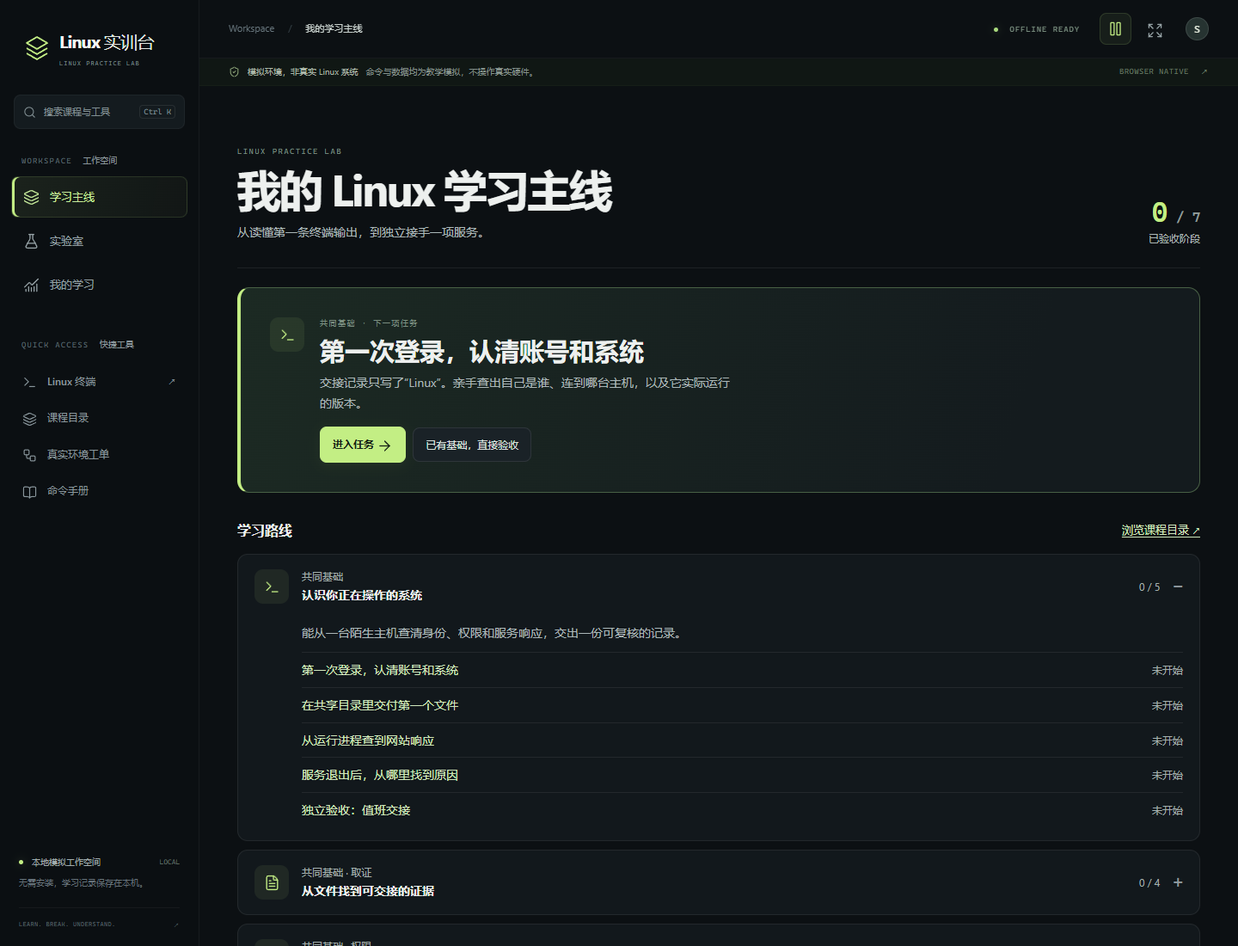
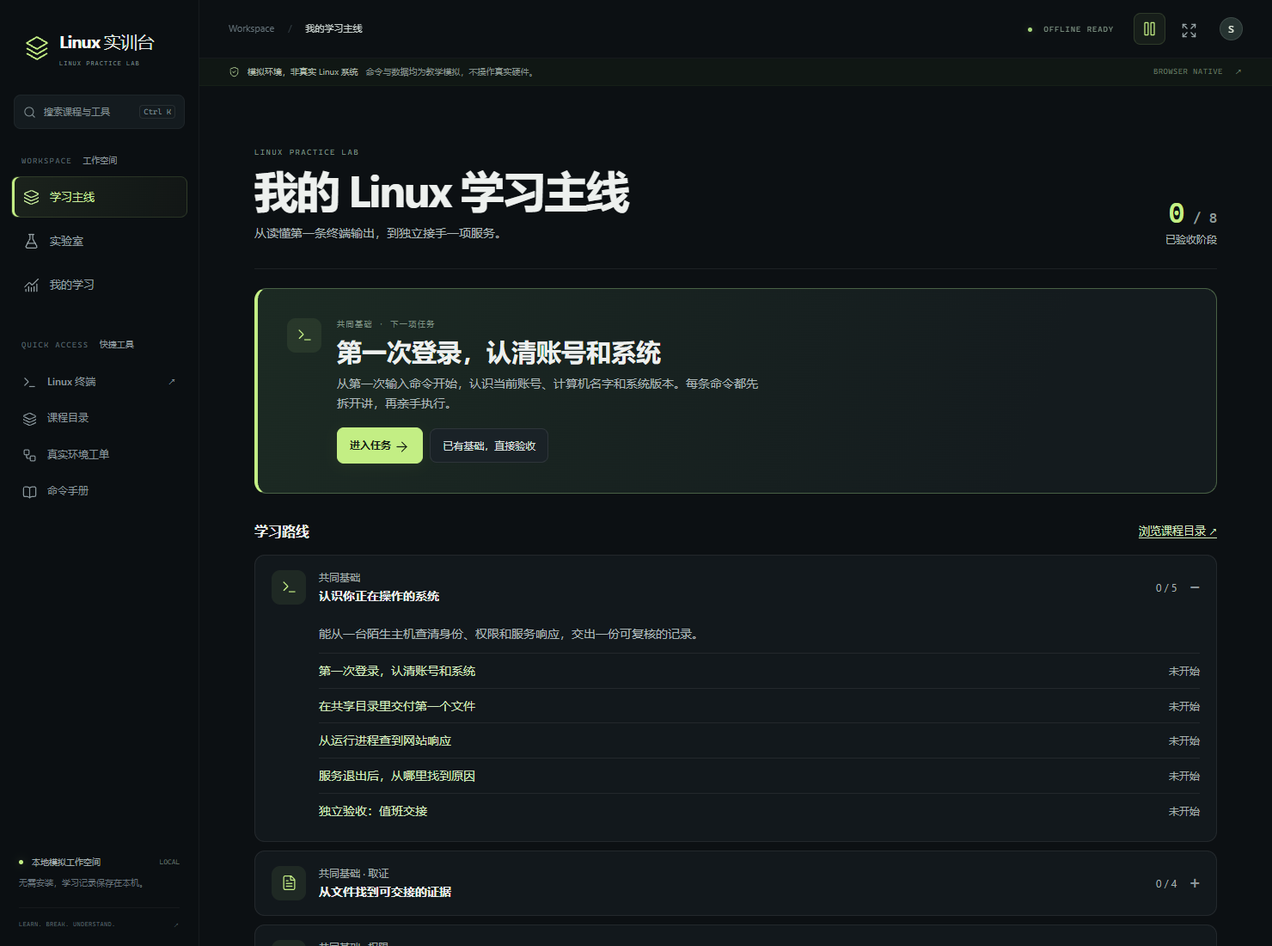
Teach service lifecycle and cron evidence through guided Linux tasks

diff --git a/schedule-courses.js b/schedule-courses.js
@@ -1,0 +1,72 @@
+'use strict';
+
+Object.assign(LINUX_CONCEPTS,{
+  servicestates:['当前运行与开机启用','start 请求服务现在启动；enable 为正常开机流程建立启用关系。两者管理的是不同状态，enable 本身不启动服务。','is-active 查现在，is-enabled 查启用关系。对本课 crond，active + disabled 可以同时成立；enabled + inactive 也可以同时成立。其他真实服务还可能被依赖或手工启动。'],
+  stopdisable:['停止、禁用与重启验证','stop 停止本次运行，不移除开机启用关系；disable 移除启用关系，不默认停止正在运行的服务。','enable --now 同时启用并启动。本课先分别操作，再模拟重启；用本次启动日志证明是否自动启动。禁用不是禁止任何方式启动。'],
+  cronfields:['系统计划行的七个部分','/etc/cron.d 的一行依次是分、时、日、月、星期、执行账号、命令。前三个星号在这里分别允许任意日、月、星期。','15 2 * * * reportbot /opt/host-report/bin/collect 表示每天 02:15 以 reportbot 启动脚本。15 是分钟，2 是小时；不是每 15 分钟。用户自己的 crontab 没有额外账号列。'],
+  crontime:['先确认时区和触发时间','本课时钟固定使用 UTC。初始 01:55，到当天 02:15 还差 20 分钟，也就是 1200 秒。','sim wait 只推进模拟时间；sim next-cron 跳到下一次每日 02:15。现实中不会自动加速，计划内容和系统时区也需分别确认。这里未模拟夏令时、补跑或复杂表达式。'],
+  croninstall:['模板与实际生效的配置','/opt/host-report/host-report.cron 是审核过的源模板。只有安装到 /etc/cron.d/host-report 后，本课调度器才读取它。','install -o root -g root -m 0644 指定目标属主、属组和权限。读回目标内容，再 ls -l 核对；仅有源模板并不能证明任务已安排。'],
+  dispatchproof:['派发、执行与产物三层证据','CROND 的 CMD 表示已启动任务；脚本自己的日志记录退出结果；报告记录实际生成的数据和来源。任务失败时，旧报告可能继续留在原路径。','把同一时刻的 CMD、source=cron 的脚本日志以及报告 generatedAt、boot、runId 对应。失败日志的 exit=127 是脚本结果，tail 命令自身仍可能读取成功。']
+});
+
+const SCHEDULE_COURSES=[
+  {id:'linux-service-lifecycle',track:'linux',group:'服务与定时任务',level:'基础',title:'现在能运行，重启后还会运行吗',
+   description:'亲自对比 start、enable、stop 和重启。把现在的运行状态与开机启用设置分开取证。',initial:{workload:'host-ops',scheduleTraining:'service'},
+   recap:'你已能解释两类状态，并用实际重启和本次日志核对 crond 的自动启动。继续学习它怎样派发任务。',
+   steps:[
+     {title:'先启动，观察两类状态',goal:'本课账号权限和 jq 已准备好，只关注调度服务 crond。先查它的当前运行和开机启用状态；再启动服务，重新查询这两项。',
+      knowledge:['process','servicestates'],concept:'crond 是按时启动任务的后台服务。“运行中”回答现在的状态，“开机启用”回答启动流程中的设置。',
+      commands:['systemctl is-active crond','systemctl is-enabled crond','sudo systemctl start crond','systemctl is-active crond','systemctl is-enabled crond','systemctl status crond'],
+      checks:[['先记录 inactive 与 disabled',c=>scheduleSaw('ops-cron-status',e=>e.action==='is-active'&&!e.active&&!e.enabled,false)(c)&&scheduleSaw('ops-cron-status',e=>e.action==='is-enabled'&&!e.active&&!e.enabled,false)(c)],
+        ['启动后复测 active 与 disabled',c=>scheduleSaw('ops-cron-status',e=>e.action==='is-active'&&e.active&&!e.enabled)(c)&&scheduleSaw('ops-cron-status',e=>e.action==='is-enabled'&&e.active&&!e.enabled)(c)]],
+      question:'start 后查询得到 active 和 disabled，说明什么？',choices:['现在已经运行，但尚未设置本课的正常开机自动启动','现在服务已经停止','下次启动一定会永久禁止该服务'],answer:0,feedback:'分别记录两类状态。下一步启用后停止服务，再用重启验证差别。',
+      example:['先看一个小例子','一台练习机现在 active，启用设置为 disabled。','它可以被手工启动，所以当前运行与开机设置不矛盾。','使用自己的两次查询对照。']},
+     {title:'启用后停止，再真正重启验证',goal:'设置 crond 开机启用，再 stop。查询并观察 enabled 与 inactive。随后模拟重启，重新查完整状态与本次启动日志。',
+      knowledge:['servicestates','stopdisable','journal'],concept:'本课重启保留开机启用设置，并按照它启动 crond。停止当前进程不会删除这项设置。刷新页面只是续学，不是模拟重启。',
+      commands:['sudo systemctl enable crond','sudo systemctl stop crond','systemctl is-enabled crond','systemctl is-active crond','sudo reboot','systemctl status crond','journalctl -u crond -b'],
+      checks:[['重启前亲自观察 enabled 与 inactive',({events})=>events.some(e=>e.kind==='ops-cron-status'&&!e.pipeline&&!e.fromPeer&&e.action==='is-enabled'&&e.enabled&&!e.active)&&events.some(e=>e.kind==='ops-cron-status'&&!e.pipeline&&!e.fromPeer&&e.action==='is-active'&&e.enabled&&!e.active)],
+        ['新启动已自动拉起，状态与当前日志相符',scheduleBootVerified]],
+      readings:[['boot','模拟机当前启动轮次',m=>String(m.boot)]],
+      question:'stop 后仍然 enabled，重启又 active，原因是什么？',choices:['stop 自动清空了全部计划','stop 只停止当前运行，启用设置在本次重启时重新拉起服务','浏览器刷新安装了新的 Linux 内核'],answer:1,feedback:'服务已随本次启动运行，还不能据此证明任何定时脚本成功。',
+      example:['把操作与证据连起来','启用 → 停止 → enabled/inactive → 重启 → enabled/active。','两次状态查询分别描述各自时点。','在新的启动轮次读日志，避免拿上次记录证明这次启动。']}
+   ]},
+  {id:'linux-cron-evidence',track:'linux',group:'服务与定时任务',level:'基础',title:'计划派发了，为什么还是旧报告',
+   description:'读懂每日计划的每一列。观察派发成功而脚本失败，恢复依赖后串起同一次执行的三层证据。',initial:{workload:'host-ops',scheduleTraining:'dispatch'},
+   recap:'你能区分配置、派发和脚本结果，排除旧报告与手工试跑，再进入独立交接。',
+   steps:[
+     {title:'先读时间与模板，再安装计划',goal:'本课 crond 已启动并启用，reportbot 可读输入，但 jq 尚未安装，磁盘上留有旧手工报告。先看时间、状态和旧报告，再逐列读审核模板，安装到 cron.d 并核对内容、属主与权限。',
+      knowledge:['crontime','cronfields','croninstall','freshartifact'],concept:'先保留现场。原模板位于 /opt，实际任务文件位于 /etc/cron.d。安装配置不会立刻生成报告。',
+      commands:['date','systemctl status crond','cat '+HOST_REPORT_RESULT,'cat '+HOST_CRON_TEMPLATE,scheduleInstall,'cat '+HOST_CRON_FILE,'ls -l '+HOST_CRON_FILE],
+      checks:[['记录时区、当前服务和旧手工产物',c=>scheduleSaw('ops-time',e=>!e.failed&&e.output.includes('UTC'),false)(c)&&scheduleSaw('ops-cron-status',e=>!e.failed&&e.active&&e.enabled,false)(c)&&scheduleSaw('ops-artifact',e=>!e.failed&&e.artifact.boot!==c.machine.boot&&e.artifact.source==='manual',false)(c)],
+        ['模板已安装，并读回目标内容及权限',c=>scheduleSaw('ops-schedule-read',e=>!e.failed&&!e.installed,false)(c)&&scheduleSaw('ops-schedule-read',e=>!e.failed&&e.installed)(c)&&scheduleSaw('ops-schedule-mode',e=>!e.failed)(c)]],
+      question:'/etc/cron.d 中的 15 2 * * * reportbot 告诉我们什么？',choices:['每 15 秒以 root 执行','按本课 UTC 每天 02:15 以 reportbot 执行','每天 15:02 启动浏览器'],answer:1,feedback:'配置就位，下一步观察触发后的实际执行。',
+      example:['换个数字自己读','30 8 * * * analyst /opt/demo/check','每天 08:30，以 analyst 执行该绝对路径。','回到本课逐列读出 02:15 和 reportbot。']},
+     {title:'保存派发成功、脚本失败的现场',goal:'用模拟时钟跳到下一次触发点。查本次启动的调度日志、脚本日志和依赖包，再读 latest.json：它有没有被这一次任务更新？',
+      knowledge:['dispatchproof','dependencies','freshartifact'],concept:'这次会真正触发模拟脚本。CMD 只能证明派发；缺少 jq 时脚本退出 127，旧文件仍留在原路径。',
+      commands:['sim next-cron','journalctl -u crond -b','tail -n 6 '+HOST_REPORT_LOG,'rpm -q jq','cat '+HOST_REPORT_RESULT],
+      checks:[['当前已派发，同时留下本轮 exit=127 的脚本证据',c=>scheduleSaw('ops-cron-log',e=>!e.failed&&e.current&&Boolean(e.dispatchedAt))(c)&&scheduleSaw('ops-job-log',e=>!e.failed&&e.entries.some(row=>row.source==='cron'&&row.boot===c.machine.boot&&row.exitCode===127&&row.runId===c.machine.ops.runOrdinal))(c)],
+        ['证实依赖缺失，读回的仍是旧手工报告',c=>scheduleSaw('ops-package-query',e=>e.failed&&!e.installed)(c)&&scheduleSaw('ops-artifact',e=>!e.failed&&e.artifact.boot!==c.machine.boot&&e.artifact.source==='manual')(c)]],
+      readings:[['exit','脚本日志中本轮 cron 任务的 exit',()=> '127']],
+      question:'CMD 存在、tail 读取成功，但日志里 exit=127，应该怎样判定？',choices:['tail 成功等于巡检成功','计划已经派发，脚本失败；旧报告不能作为本轮成功证据','只需要删掉错误日志'],answer:1,feedback:'保存失败证据后修复依赖，再等一次新的调度并复查。',
+      example:['读取成功不等于被读程序成功','tail 返回了一行 source=cron exit=127。','tail 成功读取文件；文件记录的是另一程序的失败。','把查询命令结果与任务退出结果分开。']},
+     {title:'修复后核对新的自动产物',goal:'确认批准来源并安装 jq。先手工试跑、读报告，明确 manual 只证明手工成功。再跳到下次 02:15，重新采服务、计划、派发日志、脚本日志和新报告。',
+      knowledge:['repositories','dispatchproof','freshartifact'],concept:'修复不删除历史错误。新一次自动运行应有新的 runId、source=cron 和对应时间。旧日志仍在，需要找到这一轮。',
+      commands:['dnf info jq','sudo dnf install jq',reportRun,'cat '+HOST_REPORT_RESULT,'sim next-cron','systemctl status crond','cat '+HOST_CRON_FILE,'ls -l '+HOST_CRON_FILE,'journalctl -u crond -b','tail -n 6 '+HOST_REPORT_LOG,'cat '+HOST_REPORT_RESULT],
+      checks:[['修复依赖后先验证本轮手工产物',c=>scheduleSaw('ops-package-repo',e=>!e.failed&&e.output.includes('ops-approved'),false)(c)&&scheduleSaw('ops-artifact',e=>!e.failed&&e.artifact.source==='manual'&&e.artifact.boot===c.machine.boot)(c)],
+        ['变更后重新核对服务和实际计划',c=>scheduleSaw('ops-cron-status',e=>!e.failed&&e.action==='status'&&e.active&&e.enabled)(c)&&scheduleSaw('ops-schedule-read',e=>!e.failed&&e.installed)(c)&&scheduleSaw('ops-schedule-mode',e=>!e.failed)(c)],
+        ['自动任务的派发、退出 0 与本轮产物一致',scheduleCurrentReport]],
+      readings:[['source','新自动报告的 source',()=> 'cron'],['run','新自动报告的 runId',m=>String(m.ops.latest?.runId||'')]],
+      question:'手工报告和自动报告都成功，最终证明计划完成应引用哪一组？',choices:['任意一次 manual 报告','只有模板和 enabled','本轮 cron 的派发时间、exit=0 与匹配的新报告'],answer:2,feedback:'用具体的时间、编号和启动轮次说明这一次成功。',
+      example:['同一路径，不同运行','旧报告 runId=4，手工试跑 runId=5，自动运行 runId=6。','路径相同，来源和执行编号不同。','交接自动任务时引用第 6 次实际结果及对应日志。']}
+   ]},
+  {id:'linux-schedule-handoff',track:'linux',group:'服务与定时任务',level:'基础',title:'独立验收：重启后的自动巡检交接',
+   description:'新现场已具备账号、依赖和计划。独立检查开机设置，重启后验证新自动报告并填写现场读数。',initial:{workload:'host-ops',scheduleTraining:'assessment'},
+   recap:'你已能独立验收自动任务。下一项 OPS-002 把账号、软件、服务和计划组合为一张完整接管工单。',
+   steps:[{title:'独立接管自动任务',independent:true,goal:'本课 reportbot 读权限和 jq 已准备，实际计划文件已存在。调查 crond 当前运行、开机启用设置和留存报告，保存变更前证据。获准只调整调度服务的启动设置；要求通过模拟重启证明服务自动启动，检查计划与权限仍有效，再取得新一次自动任务的派发、退出结果及报告。使用模拟时间推进，不必等待现实时间。最后填写本次自动报告的读数。',
+     checks:[['保存接管前 active/disabled 与旧报告',({events})=>events.some(e=>e.kind==='ops-cron-status'&&!e.pipeline&&!e.fromPeer&&e.boot===1&&e.active&&!e.enabled)&&events.some(e=>e.kind==='ops-artifact'&&!e.failed&&!e.pipeline&&!e.fromPeer&&e.boot===1&&e.artifact.boot===0)],
+       ['重启后服务自动启动，已重新核对计划及权限',c=>scheduleBootVerified(c)&&scheduleSaw('ops-schedule-read',e=>!e.failed&&e.installed)(c)&&scheduleSaw('ops-schedule-mode',e=>!e.failed)(c)],
+       ['本次启动的新自动任务三层证据齐全',scheduleCurrentReport]],
+     readings:[['account','本轮自动报告的 account',()=> 'reportbot'],['source','本轮自动报告的 source',()=> 'cron'],['time','本轮自动报告的 generatedAt（完整值）',m=>m.ops.latest?.generatedAt||''],['run','本轮自动报告的 runId',m=>String(m.ops.latest?.runId||'')],['boot','本轮自动报告的 boot',m=>String(m.boot)]],
+     question:'哪项可以写入本轮交接结论？',choices:['见过旧报告，自动任务就永久可靠','服务 active，所以不需要检查脚本','重启后自动启动已验证，本轮定时脚本退出 0，新报告时间、来源和编号匹配；后续继续监测失败与新鲜度'],answer:2,feedback:'结论限定在实际验证的环境与轮次，并保留下一班的检查点。'}]
+  }
+];

diff --git a/schedule-lab.js b/schedule-lab.js
@@ -1,0 +1,44 @@
+'use strict';
+
+COMMAND_KB.push(
+  ['服务','systemctl is-active crond','查询调度器现在是否运行','区分当前运行和开机启用。','is-active 只查当前状态，不改变服务。','active','active 但 disabled 是否矛盾？','linux-service-lifecycle'],
+  ['服务','systemctl is-enabled crond','查询正常开机启用关系','设置与当前进程分开核对。','enable 本身不启动，disable 本身不停止。','disabled','stop 后为什么仍然 enabled？','linux-service-lifecycle'],
+  ['计划任务','cat /etc/cron.d/host-report','逐列读取系统每日计划','先确认时间、账号与命令，再核对实际派发。','系统 cron.d 有账号字段；用户 crontab 没有额外账号列。',HOST_CRON_LINE,'看到 CMD 为什么还不能判定成功？','linux-cron-evidence']
+);
+
+// Lessons reuse the same crond, clock and report job as OPS-002.
+function initializeScheduleLab(machine,variant){
+  const ops=machine.ops;
+  ops.groupMember=true;
+  ops.packageInstalled=variant!=='dispatch';
+  machine.scheduleTraining={revision:0};
+  if(variant!=='service'){
+    ops.runOrdinal=1;
+    ops.latest={generatedAt:'2024-12-31T02:15:00Z',boot:0,source:'manual',account:'reportbot',checks:HOST_CHECKS.length,runId:1};
+    ops.enabled=variant==='dispatch';
+    ops.schedule=variant==='assessment';
+    setHostCronActive(machine,true);
+  }
+}
+
+function scheduleSaw(kind,match=()=>true,live=true){
+  return ({events,machine})=>events.some(e=>e.kind===kind&&!e.pipeline&&!e.fromPeer&&e.boot===machine.boot&&(!live||e.scheduleRevision===machine.scheduleTraining.revision)&&match(e));
+}
+
+function scheduleCurrentReport({events,machine}){
+  const ops=machine.ops,latest=ops.latest;
+  if(!ops.active||!ops.enabled||!ops.schedule||ops.reportRevision!==machine.scheduleTraining.revision||!latest||latest.source!=='cron'||latest.boot!==machine.boot||latest.account!=='reportbot'||latest.runId!==ops.runOrdinal)return false;
+  const fresh=e=>!e.failed&&!e.pipeline&&!e.fromPeer&&e.boot===machine.boot&&e.scheduleRevision===machine.scheduleTraining.revision;
+  const dispatch=events.findLast(e=>fresh(e)&&e.kind==='ops-cron-log'&&e.current&&e.dispatchedAt===latest.generatedAt);
+  const job=events.findLast(e=>fresh(e)&&e.kind==='ops-job-log'&&e.entries.some(row=>row.boot===machine.boot&&row.source==='cron'&&row.runId===latest.runId&&row.scheduledAt===latest.generatedAt&&row.exitCode===0));
+  const artifact=events.findLast(e=>fresh(e)&&e.kind==='ops-artifact'&&e.artifact.source==='cron'&&e.artifact.boot===machine.boot&&e.artifact.runId===latest.runId&&e.artifact.generatedAt===latest.generatedAt);
+  return Boolean(dispatch&&job&&artifact);
+}
+
+function scheduleBootVerified(context){
+  const {events,machine}=context,ops=machine.ops;
+  return ops.autoStartedBoot===machine.boot&&ops.enabled&&ops.active
+    &&events.some(e=>e.kind==='reboot'&&!e.failed&&!e.fromPeer&&e.boot===machine.boot&&e.fromBoot<machine.boot)
+    &&scheduleSaw('ops-cron-status',e=>!e.failed&&e.action==='status'&&e.enabled&&e.active)(context)
+    &&scheduleSaw('ops-cron-log',e=>!e.failed&&e.current&&e.started)(context);
+}

diff --git a/course-teaching.js b/course-teaching.js
@@ -104,6 +104,10 @@ function renderTerms(text){
 
 function measurementExample(segment){
   const tool=segment.command;
+  if(tool==='cat'&&[HOST_CRON_TEMPLATE,HOST_CRON_FILE].includes(segment.positionals[0])){
+    const fields=[['15','分钟','每小时的第 15 分钟'],['2','小时','一天中的 02 时（24 小时制）'],['*','日','不限定当月哪一天'],['*','月','不限定月份'],['*','星期','不限定星期几'],['reportbot','执行账号','脚本以该账号的权限运行'],[HOST_REPORT_SCRIPT,'命令','脚本的绝对路径']];
+    return '<section class="starter-demo"><h4>把计划行拆成七个部分</h4><pre>'+esc(HOST_CRON_LINE)+'</pre><table><thead><tr><th>写的值</th><th>字段</th><th>表示什么</th></tr></thead><tbody>'+fields.map(row=>'<tr>'+row.map(value=>'<td>'+esc(value)+'</td>').join('')+'</tr>').join('')+'</tbody></table><p>连起来读：每天 02:15，使用 reportbot 账号执行 collect。星号允许该字段的任意值。这里是系统 cron.d 格式；用户自己的 crontab 不添加执行账号列。</p><p>本机按 UTC 调度。初始 01:55 到 02:15 相差 20 分钟，也就是 1200 秒。先执行 date 确认本机时间。sim next-cron 只推进这台模拟机的时钟，不改变电脑时间。</p></section>';
+  }
   if(tool==='fio'){
     const block=segment.opts['--bs']||'4k',mib=sizeMiB(block);
     return '<section class="starter-demo"><h4>先用小数字读懂指标</h4><p>下面是计算示例。假设每次读 '+esc(block)+'，每秒完成 1000 次，那么 IOPS=1000，BW 约为 '+(1000*mib).toFixed(2)+' MiB/s。</p><p>次数乘每次大小得到传输量。延迟表示每次请求用了多久，接下来从实际输出同时读取这三类数据。示例数字不计入本轮测试结果。</p></section>';

diff --git a/command-teaching.js b/command-teaching.js
@@ -132,7 +132,12 @@ function teachingRows(segment,output,event){
   }
   if(event?.kind==='ops-schedule-read')add('计划行：分 时 日 月 星期 用户 命令',line(/^15 2 /),'每天按主机时区于 02:15 启动。cron.d 的用户字段指定 reportbot，命令使用绝对路径。');
   if(event?.kind==='ops-cron-log')add('CROND / CMD',lines.findLast(value=>value.includes(' CMD ')),'调度器已经派发命令。脚本是否完成还要查退出结果和新生成的文件。');
-  if(event?.kind==='ops-job-log')add('source / exit',lines.findLast(value=>value.includes('exit=')),'source 区分手工和定时。exit=0 表示脚本成功，仍应对照新报告的时间和来源。');
+  if(event?.kind==='ops-job-log'){
+    add('source / exit / run',lines.findLast(value=>value.includes('exit=')),'source 区分 manual 手工与 cron 定时。exit 是脚本的退出码；run 是运行编号。exit=0 还需匹配新报告；127 在本课表示依赖缺失。读取日志的 tail 自身可以成功，日志中的脚本仍可能失败。');
+  }
+  if(event?.kind==='ops-cron-status'){
+    add('当前运行 / 开机启用',(event.active?'active':'inactive')+' / '+(event.enabled?'enabled':'disabled'),'这是两项状态：start/stop 改现在，enable/disable 改正常开机启用关系。enable 本身不启动。对本课 crond，inactive 查询返回 3，disabled 查询返回 1，是查询结果，不自动代表硬件故障。');
+  }
   if(event?.kind==='ops-artifact')add('generatedAt / boot / source',lines.filter(value=>/"(generatedAt|boot|source)"/.test(value)).join('\n'),'用时间、启动轮次和生成方式排除旧报告或手工试跑。');
   if(command==='lscpu'){
     const count=label=>Number(lines.find(l=>l.startsWith(label+':'))?.split(':')[1]);

diff --git a/practice-engine.js b/practice-engine.js
@@ -66,6 +66,7 @@ function createPracticeRun(initial){
   if(initial.fileTraining)initializeFileLab(machine,initial.fileTraining);
   if(initial.accountTraining)initializeAccountLab(machine,initial.accountTraining);
   if(initial.packageTraining)initializePackageLab(machine,initial.packageTraining);
+  if(initial.scheduleTraining)initializeScheduleLab(machine,initial.scheduleTraining);
   return {machine,events:[],sequence:0};
 }
 
@@ -132,6 +133,7 @@ function recordPracticeEvent(run,raw,result,previous,segment){
   const state=practiceState(run.machine);
   const changed=Object.keys(state).filter(key=>state[key]!==previous[key]);
   if(changed.length)run.machine.revision++;
+  if(run.machine.scheduleTraining&&changed.some(key=>['boot','reportAccess','reportDependency','cronActive','cronEnabled','cronSchedule'].includes(key)))run.machine.scheduleTraining.revision++;
   const event={
     environment:machineEnvironment(run.machine),environmentKey:environmentKey(run.machine),
     ...result,failed:Boolean(result.failed),raw,at:stamp(),seq:++run.sequence,
@@ -139,6 +141,7 @@ function recordPracticeEvent(run,raw,result,previous,segment){
     revision:run.machine.revision,fromBoot:previous.boot,changed,
     workingDirectory:previous.cwd,
     workingUser:previous.accountSession,
+    scheduleRevision:run.machine.scheduleTraining?.revision,
     command:segment?.command, target:result.target??segment?.positionals[0], fromPeer:Boolean(segment?.fromB),
     delta:changed.length?Object.fromEntries(changed.map(key=>[key,[previous[key],state[key]]])):undefined
   };

diff --git a/host-ops-lab.js b/host-ops-lab.js
@@ -39,6 +39,7 @@ function runHostReport(machine,source){
   if(ops.log.length>80)ops.log.shift();
   if(reason)return {...modelError('collect: '+error,'ops-collect',reason,exitCode),runId,source};
   ops.latest={generatedAt:time,boot:machine.boot,source,account:'reportbot',checks:HOST_CHECKS.length,runId};
+  if(machine.scheduleTraining)ops.reportRevision=machine.scheduleTraining.revision;
   return modelResult('Wrote '+HOST_REPORT_RESULT+' ('+HOST_CHECKS.length+' checks)','ops-collect',{source,runId,exitCode:0});
 }
 
@@ -142,7 +143,7 @@ function runHostOpsCommand(machine,segment){
     const limit=Number(opts['-n']||10);
     if(command==='tail'&&(!Number.isInteger(limit)||limit<0))return modelError('tail: invalid number of lines','ops-job-log','arguments');
     const entries=command==='cat'?ops.log:limit?ops.log.slice(-limit):[];
-    return result(entries.map(entry=>entry.message).join('\n'),'ops-job-log',{scheduled:entries.findLast(entry=>entry.source==='cron'&&entry.boot===machine.boot&&entry.exitCode===0)?.scheduledAt});
+    return result(entries.map(entry=>entry.message).join('\n'),'ops-job-log',{entries:entries.map(entry=>({...entry})),scheduled:entries.findLast(entry=>entry.source==='cron'&&entry.boot===machine.boot&&entry.exitCode===0)?.scheduledAt});
   }
   if(['ls','cat'].includes(command)&&paths.includes(action))return modelError(command+': cannot access '+action+': No such file or unsupported view','ops-file','unavailable');
   return modelError(command+': unsupported action or target in the host work order','ops-command','arguments');

diff --git a/linux-path.js b/linux-path.js
@@ -11,6 +11,8 @@ const LINUX_PATH=[
    items:ACCOUNT_COURSES.map(c=>c.id),checkpoint:'linux-access-handoff'},
   {label:'共同基础 · 软件',icon:'layers',title:'从软件包验证到本轮任务',goal:'区分仓库、本机安装、程序搜索和实际运行，读回本轮产物再交接。',
    items:PACKAGE_COURSES.map(c=>c.id),checkpoint:'linux-package-handoff'},
+  {label:'共同基础 · 调度',icon:'workflow',title:'让服务重启后按时完成任务',goal:'分清运行与开机设置，读懂计划每一列，用派发、退出结果和新产物完成验收。',
+   items:SCHEDULE_COURSES.map(c=>c.id),checkpoint:'linux-schedule-handoff'},
   {label:'初级到中级',icon:'workflow',title:'接手一项日常工作',goal:'恢复每天的巡检报告，再接手一次 Web 发布。每次变更都要有验证和交接。',
    items:['linux-host-ops','linux-web-release']},
   {label:'中级实务',icon:'layers',title:'维护真实服务',goal:'在自己的容器环境里恢复订单、回滚发布、确认告警解除，导入现场证据。',

diff --git a/extended-courses.js b/extended-courses.js
@@ -375,7 +375,7 @@ function netReverse(e){
   return e.kind==='transfer'&&!e.failed&&e.target===LAB_PEER&&!e.udp&&e.reverse&&!e.fromB&&e.seconds===10&&e.streams===1&&e.port===5201&&e.offered===null;
 }
 
-const LINUX_WORK_COURSES=[...FOUNDATION_COURSES,...FILE_COURSES,...ACCOUNT_COURSES,...PACKAGE_COURSES,HOST_OPS_COURSE,...WEB_WORK_COURSES];
+const LINUX_WORK_COURSES=[...FOUNDATION_COURSES,...FILE_COURSES,...ACCOUNT_COURSES,...PACKAGE_COURSES,...SCHEDULE_COURSES,HOST_OPS_COURSE,...WEB_WORK_COURSES];
 const GUIDED_COURSES_BY_ID=new Map([...CORE_GUIDED_COURSES,NETWORK_GUIDED_COURSE,...EXTENDED_GUIDED_COURSES,...LINUX_WORK_COURSES].map(course=>[course.id,course]));
 const GUIDED_COURSES=[
   ...LINUX_WORK_COURSES.map(course=>course.id),

diff --git a/CONTRIBUTING.md b/CONTRIBUTING.md
@@ -29,11 +29,15 @@
 
 软件包阶段已完成。`package-lab.js` 包装并复用已有 RPM/DNF/巡检操作，只增加当前会话的搜索路径与版本检查。`package-courses.js` 包含两节跟练和一项独立交接。PATH 变更使用 packageRevision 隔离前后证据；巡检脚本为每次运行生成 runId，报告读回必须对应当前启动、当前运行和变更后的环境。旧存档缺少 runOrdinal 时从下一次执行自然开始记录，原有报告仍可查看。
 
-**课程统一教学结构**。所有 37 门同页课程（独立验收隐藏导读）、24 个 SIT 专题和 5 张真实环境工单，都需要按“概念 → 小例子 → 逐条命令 → 参数 → 输出 → 自己操作 → 证据”组织。每个新术语先解释，每个统计先提供能手算的小样本。导读渲染在 `beginner-teaching.js`，专业命令与术语在 `course-teaching.js`，专题例子在 `topic-teaching.js`，真实命令解释在 `real-teaching.js`。新增课程应同时补齐相应的知识内容，不能只堆命令按钮。
+**课程统一教学结构**。所有 40 门同页课程（独立验收隐藏导读）、24 个 SIT 专题和 5 张真实环境工单，都需要按“概念 → 小例子 → 逐条命令 → 参数 → 输出 → 自己操作 → 证据”组织。每个新术语先解释，每个统计先提供能手算的小样本。导读渲染在 `beginner-teaching.js`，专业命令与术语在 `course-teaching.js`，专题例子在 `topic-teaching.js`，真实命令解释在 `real-teaching.js`。新增课程应同时补齐相应的知识内容，不能只堆命令按钮。
 
 预览使用克隆模拟机，正式验收只依据实际事件。真实工单不生成虚构的输出预览，必须标明在学员系统终端执行；网页只导入取证文件。独立验收隐藏命令提示和解析，旧阶段记录保持有效。
 
-**下一批：补服务与定时任务基础**。沿用现有 `systemctl start/enable/is-active/is-enabled crond`、cron.d 模板、模拟时钟和日志。先用独立课程比较“正在运行”与“开机启用”，再教计划字段、时区、绝对路径和执行账号。验收应分别核对配置、服务状态、实际派发、脚本退出与新产物，最后连接 OPS-002 综合接管工单。
+**服务与定时任务阶段已接入**。`schedule-lab.js` 只设置课程初态与证据规则，沿用 `host-ops-lab.js` 的 crond、模拟时钟、巡检和日志。`schedule-courses.js` 有两节跟练与独立交接，先区分 start/enable/stop，再核对系统计划七个部分，最后对照派发、脚本退出与本轮产物。服务、计划、依赖或启动轮次变化会递增 scheduleRevision；产物保留生成时的环境版本，重新读取旧报告不能充当变更后的自动运行。手工覆盖自动产物后也需重新派发。每步只读自己的实际事件；新增阶段独立出口不影响旧阶段成绩。
+
+**下一批：网络寻址与连通基础**。复用已有 ip link/addr/route、ping、ss 与 curl 模型。先解释网卡接口、IP/前缀、本机回环和下一跳，再用小规模两台主机场景区分链路、路由、端口与业务响应。各课提供逐条导读和独立交接。DNS 应在相应解析状态模型就绪后单独加入，避免用固定成功输出代替诊断。
+
+新阶段说明核对 [systemctl 的启用与运行语义](https://www.freedesktop.org/software/systemd/man/latest/systemctl.html) 和 [Cronie crontab 格式](https://man7.org/linux/man-pages/man5/crontab.5.html)。本课只模拟 UTC 固定每日计划，没有实现完整 crontab 编辑、夏令时、补跑或 systemd timer。
 
 服务日志课程核对了 [journalctl 启动筛选](https://www.freedesktop.org/software/systemd/man/latest/journalctl.html) 与 [systemd 进程退出码](https://www.freedesktop.org/software/systemd/man/latest/systemd.exec.html)。
 
@@ -47,7 +51,7 @@ $env:SIT_BROWSER_CHANNEL = 'msedge'
 node smoke.mjs
 ```
 
-没有 Edge 时可用 `npx playwright install chromium` 安装测试用 Chromium，取消 `SIT_BROWSER_CHANNEL` 环境变量，再运行 `node smoke.mjs`。检查会打开本地 `index.html`，走过基础、文件日志交接、原 SIT 课程首步及两张 Linux 工单，验证发布回滚、重启与任务触发、刷新续学、会话隔离和交接导出。同时遍历全部同页课程、专题与真实工单入口，检查导读覆盖、解析和独立验收隔离。浏览器和 Playwright 仅供维护检查使用。
+没有 Edge 时可用 `npx playwright install chromium` 安装测试用 Chromium，取消 `SIT_BROWSER_CHANNEL` 环境变量，再运行 `node smoke.mjs`。检查会打开本地 `index.html`，走过基础、文件日志交接、原 SIT 课程首步及两张 Linux 工单，验证发布回滚、重启与任务触发、刷新续学、会话隔离和交接导出。新增调度阶段检查运行与启用、失败派发、手工与旧报告排除、变更失效及独立交接；同时遍历全部同页课程、专题与真实工单入口，检查导读覆盖、解析和独立验收隔离。浏览器和 Playwright 仅供维护检查使用。
 
 真实容器工单按 [OPS-003 运行手册](labs/backup-restore/README.md) 验证。在运行网页冒烟检查前设置 `SIT_BACKUP_EVIDENCE` 指向生成的 `ops003-evidence.json`，可附带验证证据导入与交接导出。Docker 验证与浏览器冒烟是两个检查项。
 

diff --git a/Linux实训路线图.md b/Linux实训路线图.md
@@ -10,13 +10,13 @@
 
 ## 教学内容复核
 
-已统一现有课程的学习结构：37 门同页课程（含独立验收）、24 个 SIT 专题、5 张真实环境工单。跟练逐条解释概念、参数与输出，先提供小例子，再实际操作。输出预览只读取克隆模拟机，不能成为完成证据；真实工单从自己的实验环境采集结果。独立验收隐藏导读与答案。
+已统一现有课程的学习结构：40 门同页课程（含独立验收）、24 个 SIT 专题、5 张真实环境工单。跟练逐条解释概念、参数与输出，先提供小例子，再实际操作。输出预览只读取克隆模拟机，不能成为完成证据；真实工单从自己的实验环境采集结果。独立验收隐藏导读与答案。
 
-开篇从终端、账号名和第一条命令讲起；文件计数先读三行练习文本，再执行 wc -l；磁盘与网络课程用可手算的数据讲指标。下一批在软件基础后补服务与定时任务的独立基础课程，然后衔接主机接管工单。新课程继续采用上述结构，不增加缺少前置说明的命令清单。
+开篇从终端、账号名和第一条命令讲起；文件计数先读三行练习文本，再执行 wc -l；磁盘与网络课程用可手算的数据讲指标。软件基础后已增加服务与定时任务阶段，再衔接主机接管工单。下一批补网络寻址与连通基础。新课程继续采用上述结构，不增加缺少前置说明的命令清单。
 
 ## 学生入口与共同基础
 
-首页 `#home` 展示学习位置与下一项任务。共同基础已有四节可操作的课，分别是认清账号和系统、创建并核对共享文件、从进程验证到网站入口、按本次启动日志定位服务退出。学生可以从 `#lesson/linux-first-login` 开始，也可通过 `#lesson/linux-foundation-check` 直接独立验收。随后依次练文件日志、账号权限、软件环境，再进入日常维护与真实环境。完整案例目录在 `#catalog`，服务器 SIT 作为其中一个方向保留。
+首页 `#home` 展示学习位置与下一项任务。共同基础已有四节可操作的课，分别是认清账号和系统、创建并核对共享文件、从进程验证到网站入口、按本次启动日志定位服务退出。学生可以从 `#lesson/linux-first-login` 开始，也可通过 `#lesson/linux-foundation-check` 直接独立验收。随后依次练文件日志、账号权限、软件环境、服务与定时任务，再进入日常维护与真实环境。完整案例目录在 `#catalog`，服务器 SIT 作为其中一个方向保留。
 
 ## 文件与日志阶段
 
@@ -28,7 +28,13 @@
 
 ## 软件包与运行环境阶段
 
-`linux-package-basics` 区分仓库候选与本机安装，依次核对包内文件、程序版本与本轮手工产物。`linux-command-path` 在已安装但当前终端搜索不到程序的环境里，对照 PATH、command -v 和绝对路径。`linux-package-handoff` 预留旧报告，学员独立调查、恢复环境并通过 runId 与启动轮次核对新产物。下一批在此后补服务与计划任务的基础训练，再进入综合主机接管。
+`linux-package-basics` 区分仓库候选与本机安装，依次核对包内文件、程序版本与本轮手工产物。`linux-command-path` 在已安装但当前终端搜索不到程序的环境里，对照 PATH、command -v 和绝对路径。`linux-package-handoff` 预留旧报告，学员独立调查、恢复环境并通过 runId 与启动轮次核对新产物。此后进入服务与定时任务阶段，再进入综合主机接管。
+
+## 服务与定时任务阶段
+
+`linux-service-lifecycle` 分别观察 active/disabled 与 inactive/enabled，再模拟重启，按新启动轮次验证服务。`linux-cron-evidence` 从 UTC 时间和计划七个部分起步，安装审核模板，实际观察派发后因依赖缺失退出 127、旧报告未更新；修复后对照新的 CMD、脚本日志和自动产物。`linux-schedule-handoff` 换一组初态独立完成开机设置、重启、计划与自动结果验收，填写时间、账号、来源、运行编号及启动轮次。下一步进入 OPS-002 综合接管。
+
+下一批补接口、IP/前缀、回环、下一跳和服务连通的基础任务，继续采用逐条讲解和新现场独立交接。已有网络模型先复用，未实现的 DNS 行为单独开发。
 
 ## 当前可练
 

diff --git a/README.md b/README.md
@@ -13,7 +13,7 @@
 3. 在首页点击「进入任务」，按目标在同页终端输入命令。执行后，右侧解析区会说明这条命令、实际参数、输出字段和下一步。完成操作与理解题，再进入下一步。
 4. 想独立练习时，进入「实验室 → Linux 终端」；想复现问题时，进入「工作问题复现」，填写现象、环境和日志并调整模拟配置。
 
-新学员按首页顺序练共同基础、文件日志、账号权限和软件环境，再进入主机接管与 Web 发布。每一阶段都有自己的独立验收；已有基础的学员可以直接参加相应验收，未上的课程仍保留“未开始”。服务器 SIT 是可选方向，可以从课程目录进入。例如用以下命令采集测试环境信息：
+新学员按首页顺序练共同基础、文件日志、账号权限、软件环境及服务调度，再进入主机接管与 Web 发布。每一阶段都有自己的独立验收；已有基础的学员可以直接参加相应验收，未上的课程仍保留“未开始”。服务器 SIT 是可选方向，可以从课程目录进入。例如用以下命令采集测试环境信息：
 
 ```text
 uname -a
@@ -36,6 +36,7 @@ dmesg -T
 | 文件与日志取证 | 定位当前文件、阅读时间范围、筛选计数、覆盖与追加保存 | 新现场的日志证据交接 |
 | 账号与最小权限 | 有效身份与旧会话、目录和文件权限、获准组与反向验证 | 只读输入授权交接 |
 | 软件包与运行环境 | 仓库与本机安装、包内文件、PATH、实际版本和手工产物 | 依赖与本轮运行交接 |
+| 服务与定时任务 | 当前运行与开机启用、计划字段、失败派发与本轮自动产物 | 重启后的自动巡检独立交接 |
 | 接管日常工作 | 巡检计划恢复、应用发布与回滚 | 带操作证据的交接报告 |
 | 维护真实服务 | PostgreSQL 恢复、容器发布、监控告警 | 本地环境采集的证据核对 |
 | 集群与容量专题 | Service/EndpointSlice 排障、队列与尾延迟对比 | 跨层证据与受控复测 |
@@ -56,9 +57,15 @@ dmesg -T
 
 ![对照本机安装、当前 PATH 与绝对路径版本检查](previews/linux-packages.png)
 
+服务与定时任务从 `#lesson/linux-service-lifecycle` 开始，继续 `linux-cron-evidence` 和 `linux-schedule-handoff`。先观察“服务启动了但没启用”“已启用但当前停止”两种状态，再读懂系统计划的每个字段。课程会真实触发模拟失败：调度器已派发、脚本缺依赖退出 127，旧报告仍留在原处。修复后必须取得本轮新的自动结果，不能用手工报告或重新读取旧文件代替验收。
+
+![把系统计划拆成七个部分，逐列读懂时间、账号与脚本路径](previews/linux-schedule.png)
+
+![实际模拟派发后脚本退出 127，旁边独立解释日志字段与旧报告](previews/linux-schedule-failure.png)
+
 ## 每一条命令怎样学
 
-现有 **37 门同页课程、24 个 SIT 专题和 5 张真实环境工单**采用统一的学习顺序：
+现有 **40 门同页课程、24 个 SIT 专题和 5 张真实环境工单**采用统一的学习顺序：
 
 1. **先理解目标和概念**：解释本步所需的词，例如进程、端口、队列深度。
 2. **看一个能核对的小例子**：先数三行文本，再学 `wc -l`；先算 `1000 IOPS × 4KiB ≈ 3.91MiB/s`，再读性能输出。
